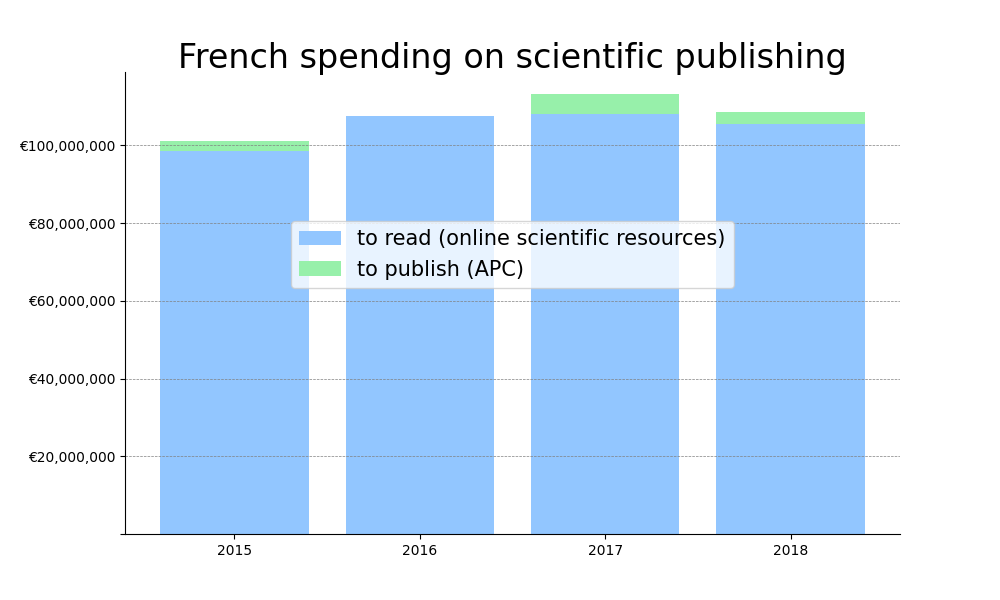
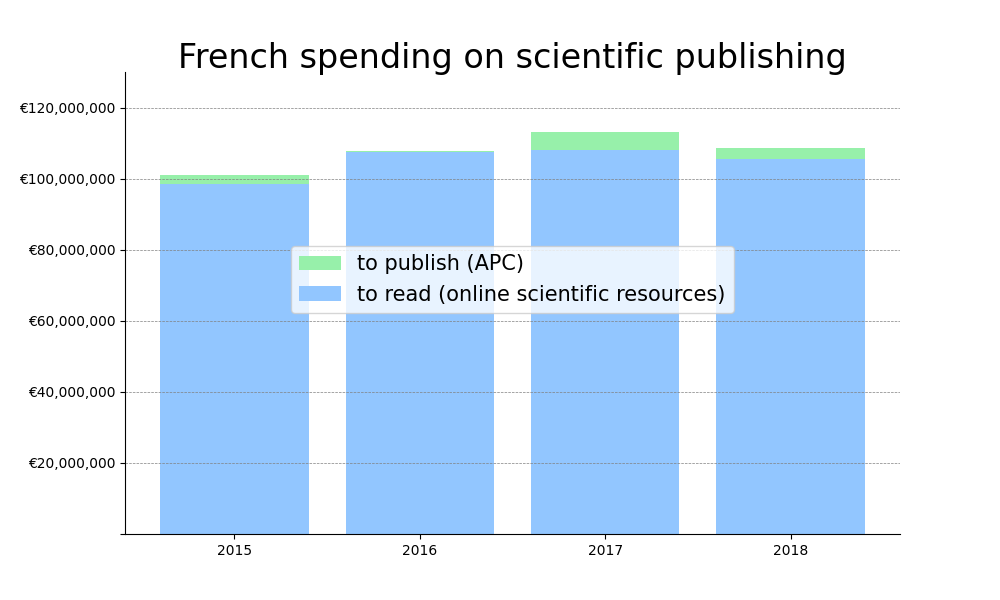
update

diff --git a/collapse_acquisition_and_apc.py b/collapse_acquisition_and_apc.py
@@ -35,6 +35,8 @@ ax.yaxis.set_major_formatter(mpl.ticker.StrMethodFormatter('€{x:,.0f}'))
 ax.bar(reading_price.keys(), reading_price.values(), label = "to read (online scientific resources)" )
 ax.bar(apc_price.keys(), apc_price.values(), bottom = list(reading_price.values()), label = "to publish (APC)" )
 
+
+
 #remove origin
 yticks = ax.yaxis.get_major_ticks()
 yticks[0].label1.set_visible(False)
@@ -42,13 +44,16 @@ yticks[0].label1.set_visible(False)
 #set grid
 ax.grid(color='grey', linestyle='--', linewidth=0.5)
 plt.gca().xaxis.grid(False)
+plt.gca().set_ylim([0, 130000000]) # set ymax
+
+# display and change legend order
+handles, labels = ax.get_legend_handles_labels()
+order = [1, 0]
+ax.legend([handles[idx] for idx in order],[labels[idx] for idx in order], 
+    bbox_to_anchor=(0.5, 0.7), fontsize = 15, loc="upper center", borderaxespad =1.7)
 
 
-#legend
-plt.legend(loc="upper center", bbox_to_anchor=(0.5, 0.7), fontsize = 15)
 plt.title("French spending on scientific publishing", fontsize = 24, y = 0.99)
-
-
 plt.savefig("french_spending.png")
 
 #print(len(df2015))
